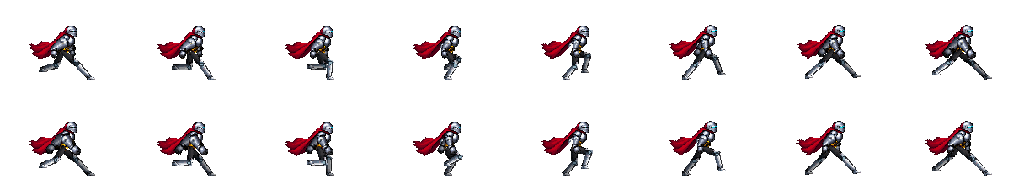
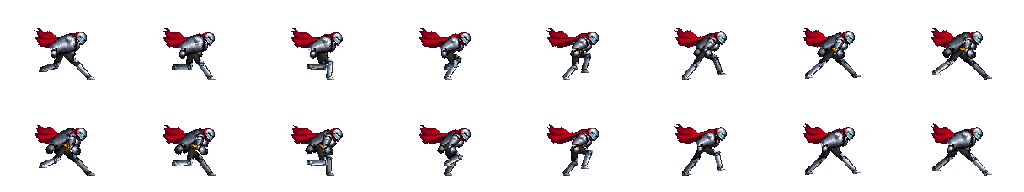
fix: lean knight torso forward during running and sprinting

diff --git a/art/characters/grounded-run-v001/sources/process.py b/art/characters/grounded-run-v001/sources/process.py
@@ -79,7 +79,8 @@ for mode in ['run','sprint','walk','idle']:
   for i in range(count):
    t=i/count;im=Image.new('RGBA',(512,384))
    bob=.6*math.sin(t*math.tau*2)
-   hip=(64,(47.0 if mode=='sprint' else 45.5)+bob);lean=2 if mode=='sprint' else 0
+   hip=(64,(47.0 if mode=='sprint' else 45.5)+bob)
+   lean={'idle':0,'walk':2,'run':7,'sprint':11}[mode]
    keys=[(24,77),(8,77),(-10,77),(-24,76),(-24,70),(-12,66),(5,69),(21,75)]
    if mode=='sprint':keys=[(30,77),(10,77),(-14,77),(-30,75),(-27,67),(-13,63),(9,68),(27,74)]
    if mode=='walk':keys=[(10,77),(5,77),(0,77),(-6,77),(-10,77),(-6,75),(0,74),(7,75)];hip=(64,44+math.sin(t*math.tau*2)*.4)
@@ -92,8 +93,10 @@ for mode in ['run','sprint','walk','idle']:
     wave=round(math.sin(t*math.tau-x*.025)*(324-x)/85)
     cap.alpha_composite(cape.crop((x,0,x+4,384)),(x,wave))
    body_hip=(274,198);body_top=(296,111)
-   target_top=(61+lean,hip[1]-17.5)
-   if mode=='idle':target_top=(61,hip[1]-17.5)
+   # Rotate the upper body around the hip without lengthening its armour/head.
+   chest_x=61+lean
+   chest_rise=math.sqrt(17.5**2+3**2-(chest_x-hip[0])**2)
+   target_top=(chest_x,hip[1]-chest_rise)
    place(im,cap,body_hip,body_top,hip,target_top)
    leg(im,(hip[0]-2,hip[1]),(57,77) if mode=='idle' else foot(t+.5),False)
    swing=0 if mode=='idle' else math.cos(t*math.tau)

diff --git a/art/characters/grounded-run-v001/README.md b/art/characters/grounded-run-v001/README.md
@@ -35,3 +35,5 @@ Equipment material follows idle, movement, on-foot recovery, unarmed and ceremon
 ## Broader stride and lowered arms
 
 The next player feedback rejected the close-to-chest hand posture and small stride. Running foot paths now span about 48 source pixels, sprint 60, with counter-swinging hands down near the waist and the armed hand carried farther behind. Plate width remains independent of leg extension; longer strides keep their authored ground contacts instead of clamping the toes upward. Idle, ceremony and recovery continue sharing the same armour parts. Runtime cadence and actual movement speeds are unchanged.
+
+Forward-posture follow-up: the player requested a clearer lean while moving. The upper-body anchor now leads the hip by 4 source pixels in normal running and 8 in sprinting, with shoulder attachment following it. Torso anchor length stays constant as it rotates, preserving head and armour size. Recovery walking has a subtler lean; idle remains unchanged. Foot paths, arm swing, cadence and combat are unchanged.

diff --git a/docs/lessons/75-forward-running-posture.md b/docs/lessons/75-forward-running-posture.md
@@ -1,0 +1,5 @@
+# 第 75 課：前傾上身，不轉動整個角色
+
+這次跑步、衝刺的前傾畫在圖格裡：以髖部為支點，只旋轉軀幹、頭盔、披風與肩部的位置，腳底仍沿原本的跨步路徑走。待機維持原樣。
+
+若直接改 Godot 整個 Knight 節點的 Rotation，腳底也會跟著轉離地面，還可能影響碰撞；因此這次沒有改角色節點旋轉或碰撞。圖集播放方式、實際速度與方向踏斬規則都保留。
